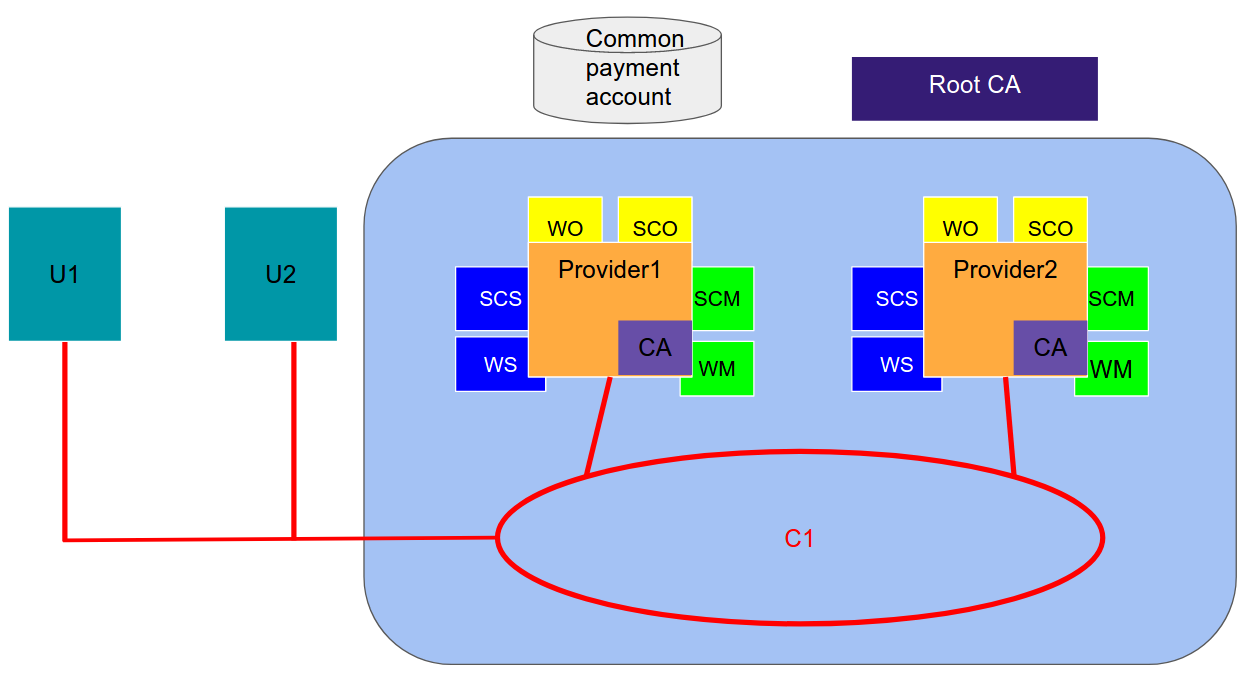
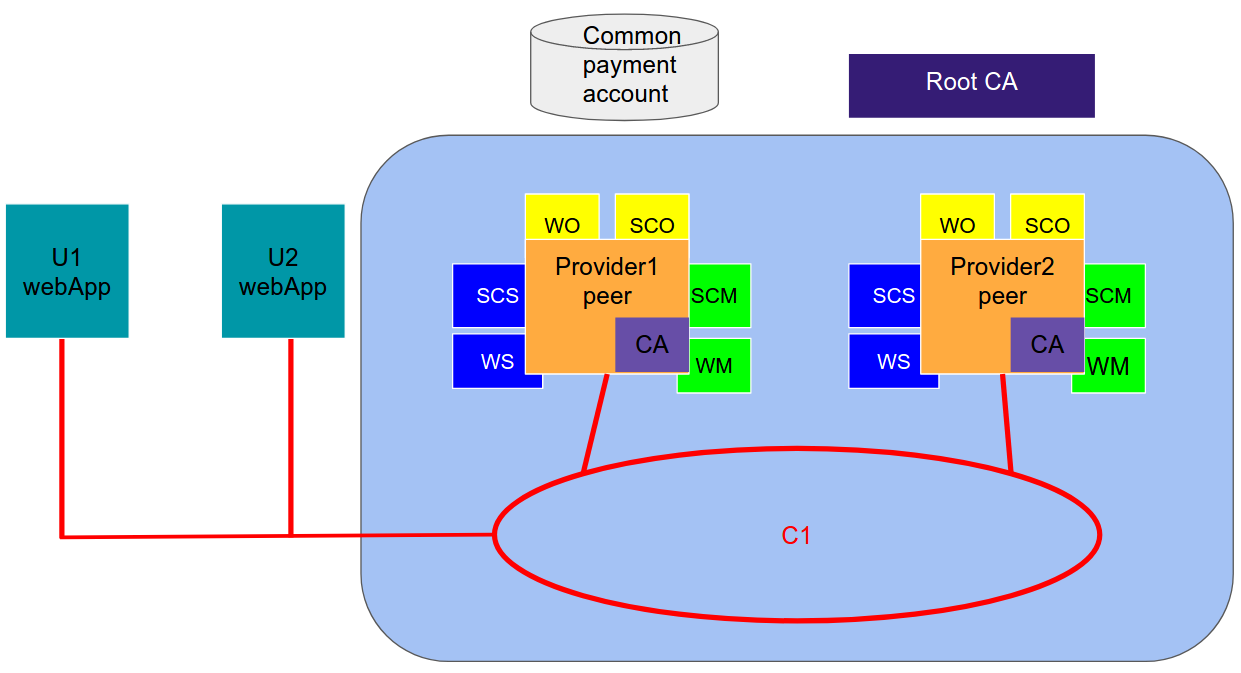
new images

diff --git a/docs/Design.md b/docs/Design.md
@@ -13,11 +13,12 @@ Users will not be able to convert HyperCash into real money.
 
 #### Parties involved
 - Service providers, which contains
-      - server with related database that allows access of the service to the client.
-      - hyperledger peer.
-      - hyperledger ordering node.
-      - CA that provides certificates to the end user.
- - End users, which will host the webapp
+    - server with related database that allows access of the service to the client.
+    - hyperledger peer.
+    - hyperledger ordering node.
+    - CA that provides certificates to the end user.
+ - End users
+    - they will use the WebApp to interact to the hyperledger blockchain.
  - CA (trusted root CA between all the organizations)
  - Common payment account, external to the Hyperledger blockchain.
 
@@ -39,7 +40,7 @@ This page will allow users to link their "normal account" to the blockchain one.
 
 - Issue subscription
 
-When a user subscribes to a new service, if it chooses to share the subscription (sub) within the network, the Service Provider will issue the new subscription to the channel.
+When a user subscribes to a new service, if it chooses to share the subscription (sub1) within the network, the Service Provider will issue the new subscription to the channel.
 All the other peer in the network will add it to their ledger, if the data is valid.
 
 ![Subscription insertion](../img/subscription_schema.png "Subscription insertion")
